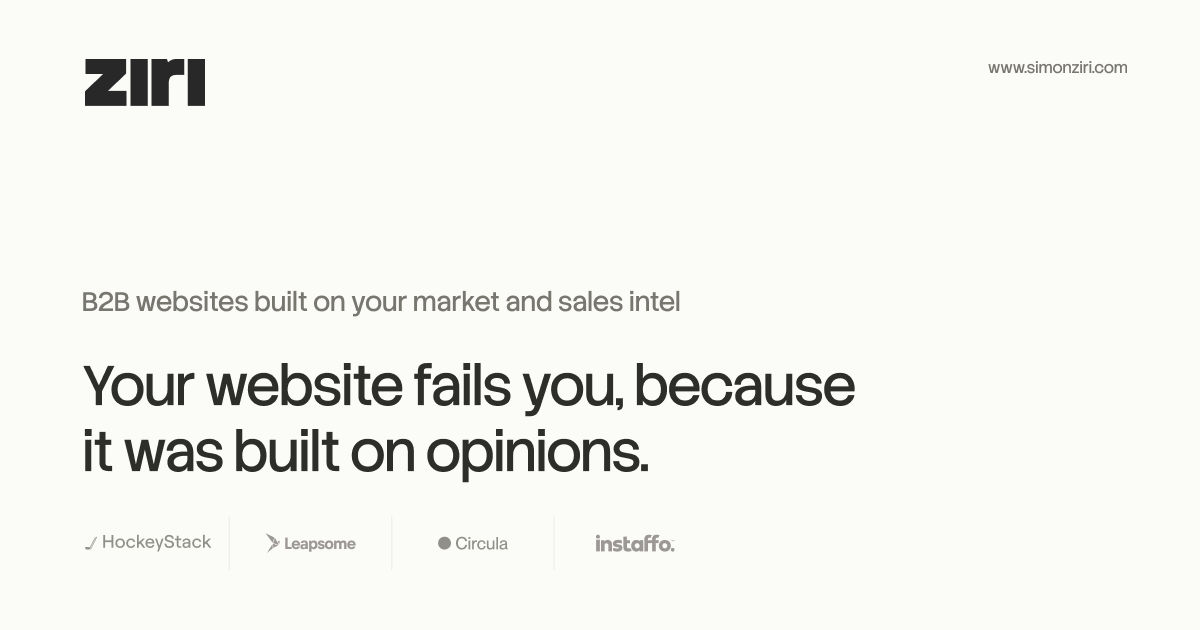
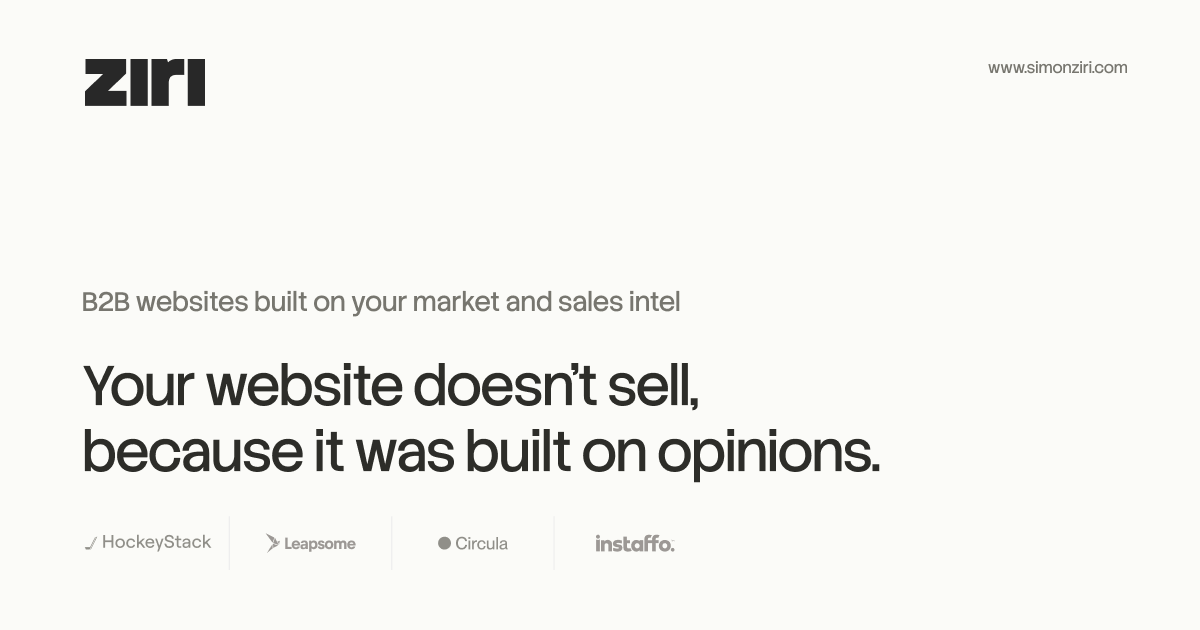
New OG/Twitter image; slogan and description follow the 'doesn't sell' H1

Changed region(s): [[0.0617, 0.573, 0.74, 0.754]]

diff --git a/src/app/layout.tsx b/src/app/layout.tsx
@@ -14,7 +14,7 @@ const stackSans = localFont({
 const SITE_URL = "https://simonziri.com";
 const SITE_TITLE = "ZIRI | B2B Websites Built on Market and Sales Intel";
 const SITE_DESCRIPTION =
-  "Your website fails you because it was built on opinions. ZIRI builds " +
+  "Your website doesn't sell because it was built on opinions. ZIRI builds " +
   "and validates a playbook from your market and sales intel, then builds " +
   "messaging, brand, and website around it.";
 
@@ -70,7 +70,7 @@ const jsonLd = {
         addressCountry: "DE",
       },
       description: SITE_DESCRIPTION,
-      slogan: "Your website fails you, because it was built on opinions.",
+      slogan: "Your website doesn't sell, because it was built on opinions.",
       founder: {
         "@type": "Person",
         name: "Simon Ziri",
